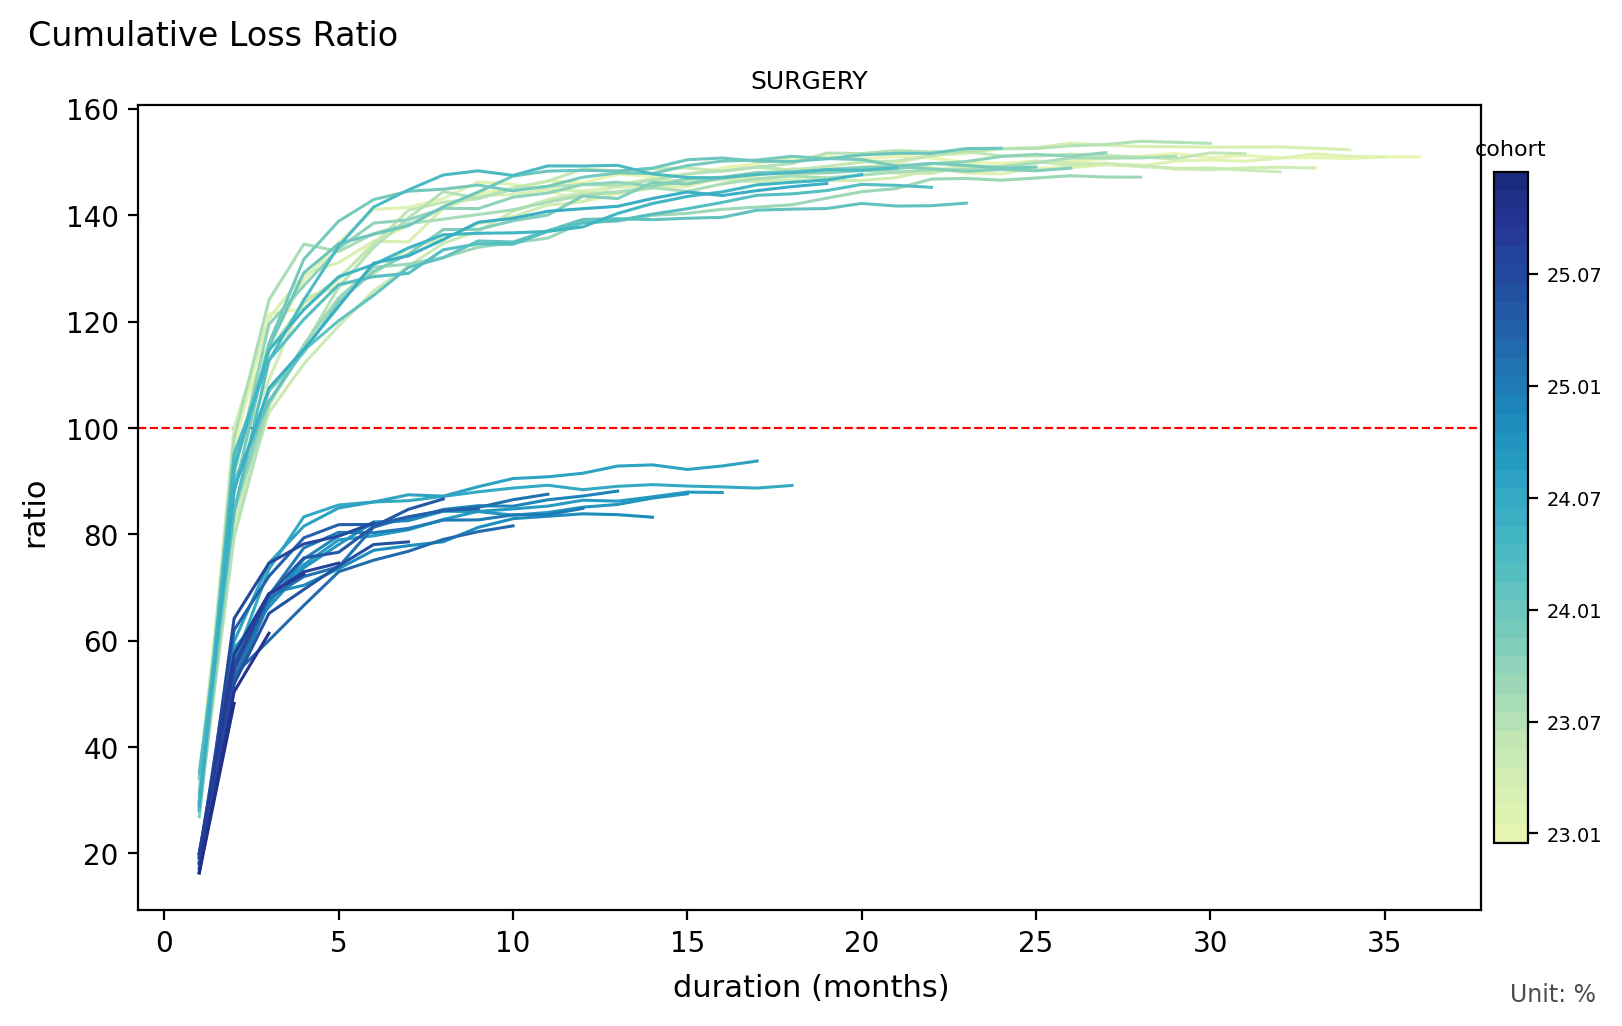
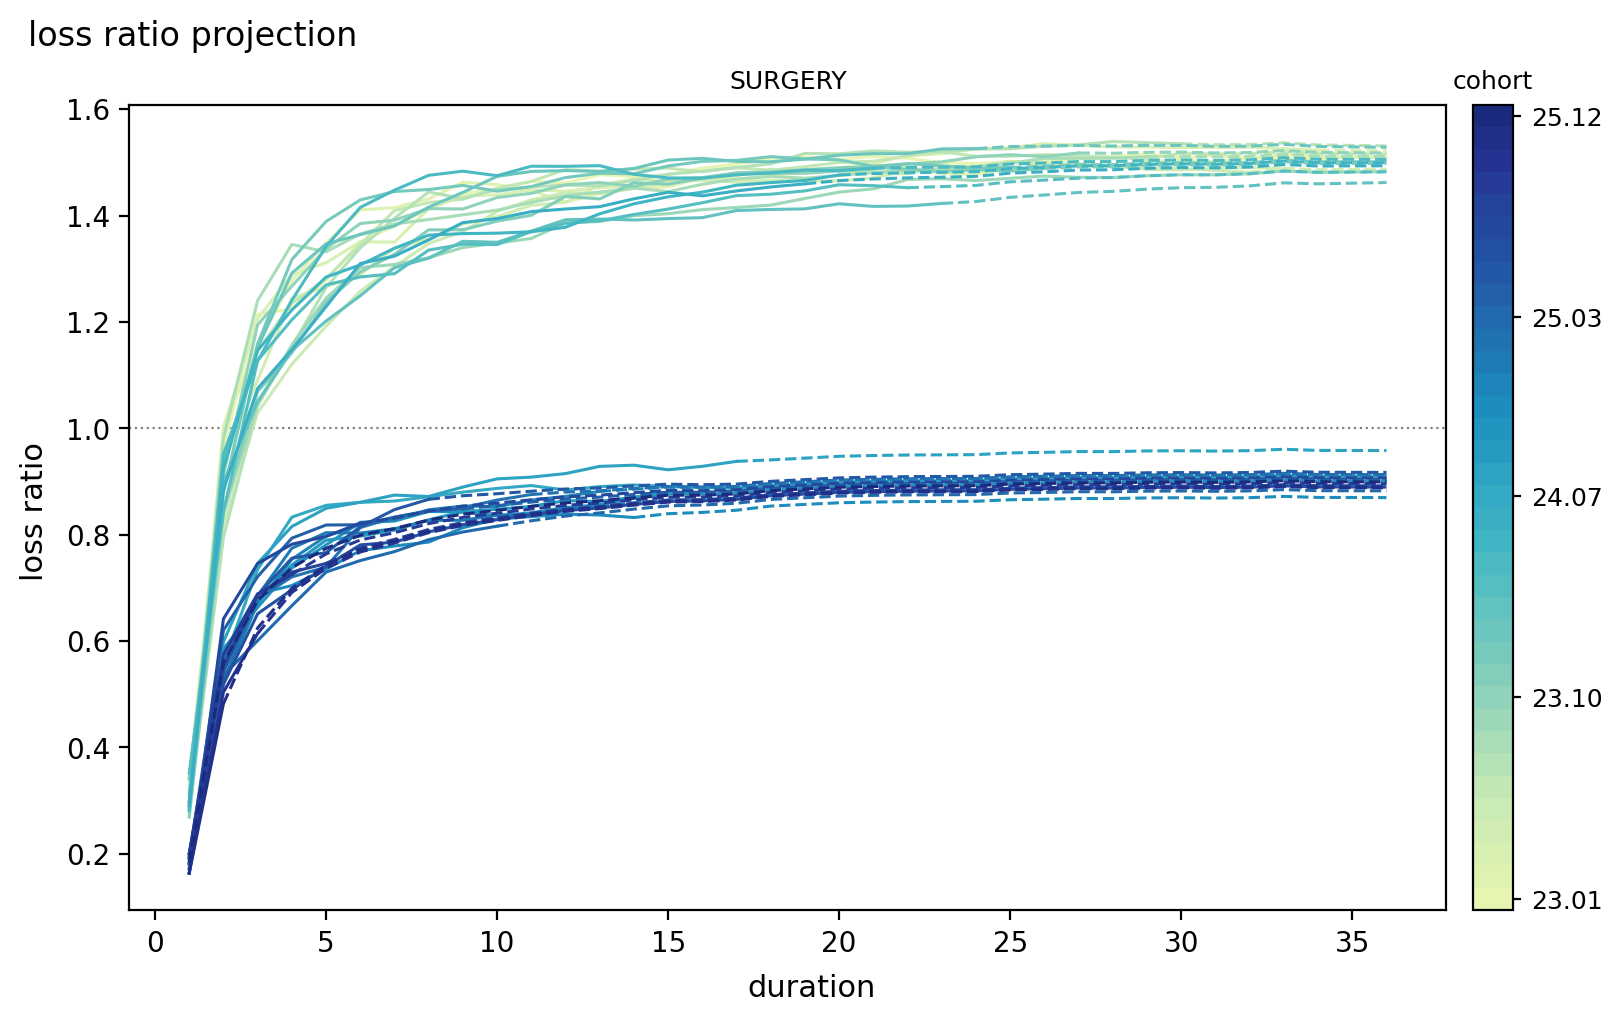
fix: use the segment_wise projection as the README hero and tidy plot chrome
- Restore the loss-ratio projection (observed solid, projected dashed) as the
  README Quick Start hero, rendered at higher resolution; the earlier swap to
  an observed-only trajectory plot dropped the projection the figure is meant
  to show.
- Format the fit-plot cohort colourbar with period labels (`23.01`) instead of
  full dates, matching the trajectory plot.
- Thin the cohort colourbar to five evenly spaced, larger tick labels
  (including the last cohort) so they stay legible when the figure is scaled.
- Move the ratio summary's Mean / Median / Weighted legend outside the axes so
  it no longer overlaps the panels.

Changed region(s): [[0.0, 0.0606, 0.9864, 1.0], [0.0, 0.0, 0.2466, 0.0606], [0.4316, 0.0606, 0.524, 0.0909]]

diff --git a/src/lossratio/_plot/fit.py b/src/lossratio/_plot/fit.py
@@ -15,8 +15,14 @@ import numpy as np
 import polars as pl
 
 from .._kernels.io import iter_group_frames
-from .base import open_facets
-from .theme import add_cohort_colorbar, cohort_gradient, finalize_figure
+from .._kernels.period import infer_grain
+from .base import get_period_type, open_facets
+from .theme import (
+    add_cohort_colorbar,
+    cohort_gradient,
+    finalize_figure,
+    period_label_fn,
+)
 
 if TYPE_CHECKING:
     pass
@@ -111,7 +117,9 @@ def plot_fit(
     vis_axes = [grid.axes[divmod(i, grid.ncol)[0]][divmod(i, grid.ncol)[1]]
                 for i in range(n_facets)]
     if n_coh > 1:
-        add_cohort_colorbar(grid.fig, vis_axes, cohorts, coh_color)
+        coh_type = get_period_type(None, grain=infer_grain(df["cohort"]))
+        add_cohort_colorbar(grid.fig, vis_axes, cohorts, coh_color,
+                            label_fn=period_label_fn(coh_type))
 
     return grid.fig
 

diff --git a/src/lossratio/_plot/theme.py b/src/lossratio/_plot/theme.py
@@ -138,12 +138,17 @@ def add_cohort_colorbar(
     n_coh = len(cohorts)
     lc = ListedColormap([coh_color(c) for c in cohorts])
     sm = ScalarMappable(norm=Normalize(vmin=0, vmax=n_coh), cmap=lc)
-    cbar = fig.colorbar(sm, ax=vis_axes, fraction=0.025, pad=0.01)
-    ticks = list(range(0, n_coh, max(1, n_coh // 6)))
+    cbar = fig.colorbar(sm, ax=vis_axes, fraction=0.032, pad=0.02)
+    # Up to five evenly spaced ticks including the first and last cohort, so
+    # the labels stay legible (and uncrowded) when the figure is scaled down.
+    n_ticks = min(5, n_coh)
+    ticks = (sorted({round(i * (n_coh - 1) / (n_ticks - 1))
+                     for i in range(n_ticks)})
+             if n_ticks > 1 else [0])
     cbar.set_ticks([t + 0.5 for t in ticks])
     cbar.set_ticklabels([label_fn(cohorts[t]) for t in ticks])
-    cbar.ax.tick_params(labelsize=7)
-    cbar.ax.set_title("cohort", fontsize=8)
+    cbar.ax.tick_params(labelsize=9, length=3)
+    cbar.ax.set_title("cohort", fontsize=9, pad=6)
     return cbar
 
 

diff --git a/src/lossratio/_plot/triangle_line.py b/src/lossratio/_plot/triangle_line.py
@@ -272,8 +272,8 @@ def plot(
             plt.Line2D([], [], color=STAT_COLORS["median"], label="Median"),
             plt.Line2D([], [], color=STAT_COLORS["weighted"], label="Weighted"),
         ]
-        fig.legend(handles=handles, loc="upper right", fontsize=8,
-                   frameon=False)
+        fig.legend(handles=handles, loc="outside upper right", ncol=3,
+                   fontsize=8, frameon=False)
     elif n_coh > 1:
         # Raw-mode cohort colour bar.
         coh_type = get_period_type(coh, grain=grain)

diff --git a/README.md b/README.md
@@ -166,23 +166,23 @@ reg = tri.detect_regime(target="ratio", window=12)
 reg.change_points
 #> [datetime.date(2024, 7, 1)]
 
-# 6b. Plot the experience, one line per cohort coloured by inception (the
-#     colourbar reads 23.01, 23.07, ... period labels). The detected 2024-07
-#     split shows up as two bands: recent (dark) cohorts settle near 0.9,
-#     older (light) cohorts near 1.5.
-tri.plot(metric="ratio")
-```
-
-![Cumulative loss ratio for SURGERY, one line per cohort coloured by inception (dark = recent, light = 2023, colourbar in 23.01 period labels). The detected 2024-07 regime appears as two bands: recent cohorts settle near 0.9, older cohorts near 1.5.](assets/quickstart_ratio.png)
-
-```python
-# 6c. Project respecting that regime (segment_wise: each regime's cohorts
-#     develop along their own shape), so the post-2024-07 cohorts settle near
-#     their own ~0.9 level instead of being dragged toward the pre-regime ~1.5.
+# 6b. Project respecting the detected regime (segment_wise: each regime's
+#     cohorts develop along their own shape), so the post-2024-07 cohorts
+#     project along their own ~0.9 level instead of being dragged toward the
+#     pre-regime ~1.5. Observed solid, projected dashed, coloured by cohort
+#     (the colourbar reads 23.01, 23.10, ... period labels).
 reg_fit = lr.Ratio(
     loss=lr.PooledLoss(regime=lr.RegimeDetector(treatment="segment_wise")),
     premium=lr.PooledPremium(),
 ).fit(tri)
+reg_fit.plot()
+```
+
+![Segment-wise loss-ratio projection for SURGERY: two bands each developed along its own regime shape -- pre-2024-07 cohorts settling near 1.5, post-regime cohorts near 0.9 -- observed solid, projected dashed, coloured by cohort with the colourbar in 23.01 period labels.](assets/quickstart_ratio.png)
+
+```python
+# 6c. The tail of that projection: the post-2024-07 cohorts settle near their
+#     own ~0.9 level, not the pre-regime ~1.5.
 reg_fit.summary().select(["coverage", "cohort", "ratio_proj", "ratio_se"]).tail(3)
 #> shape: (3, 4)
 #> ┌──────────┬────────────┬────────────┬──────────┐